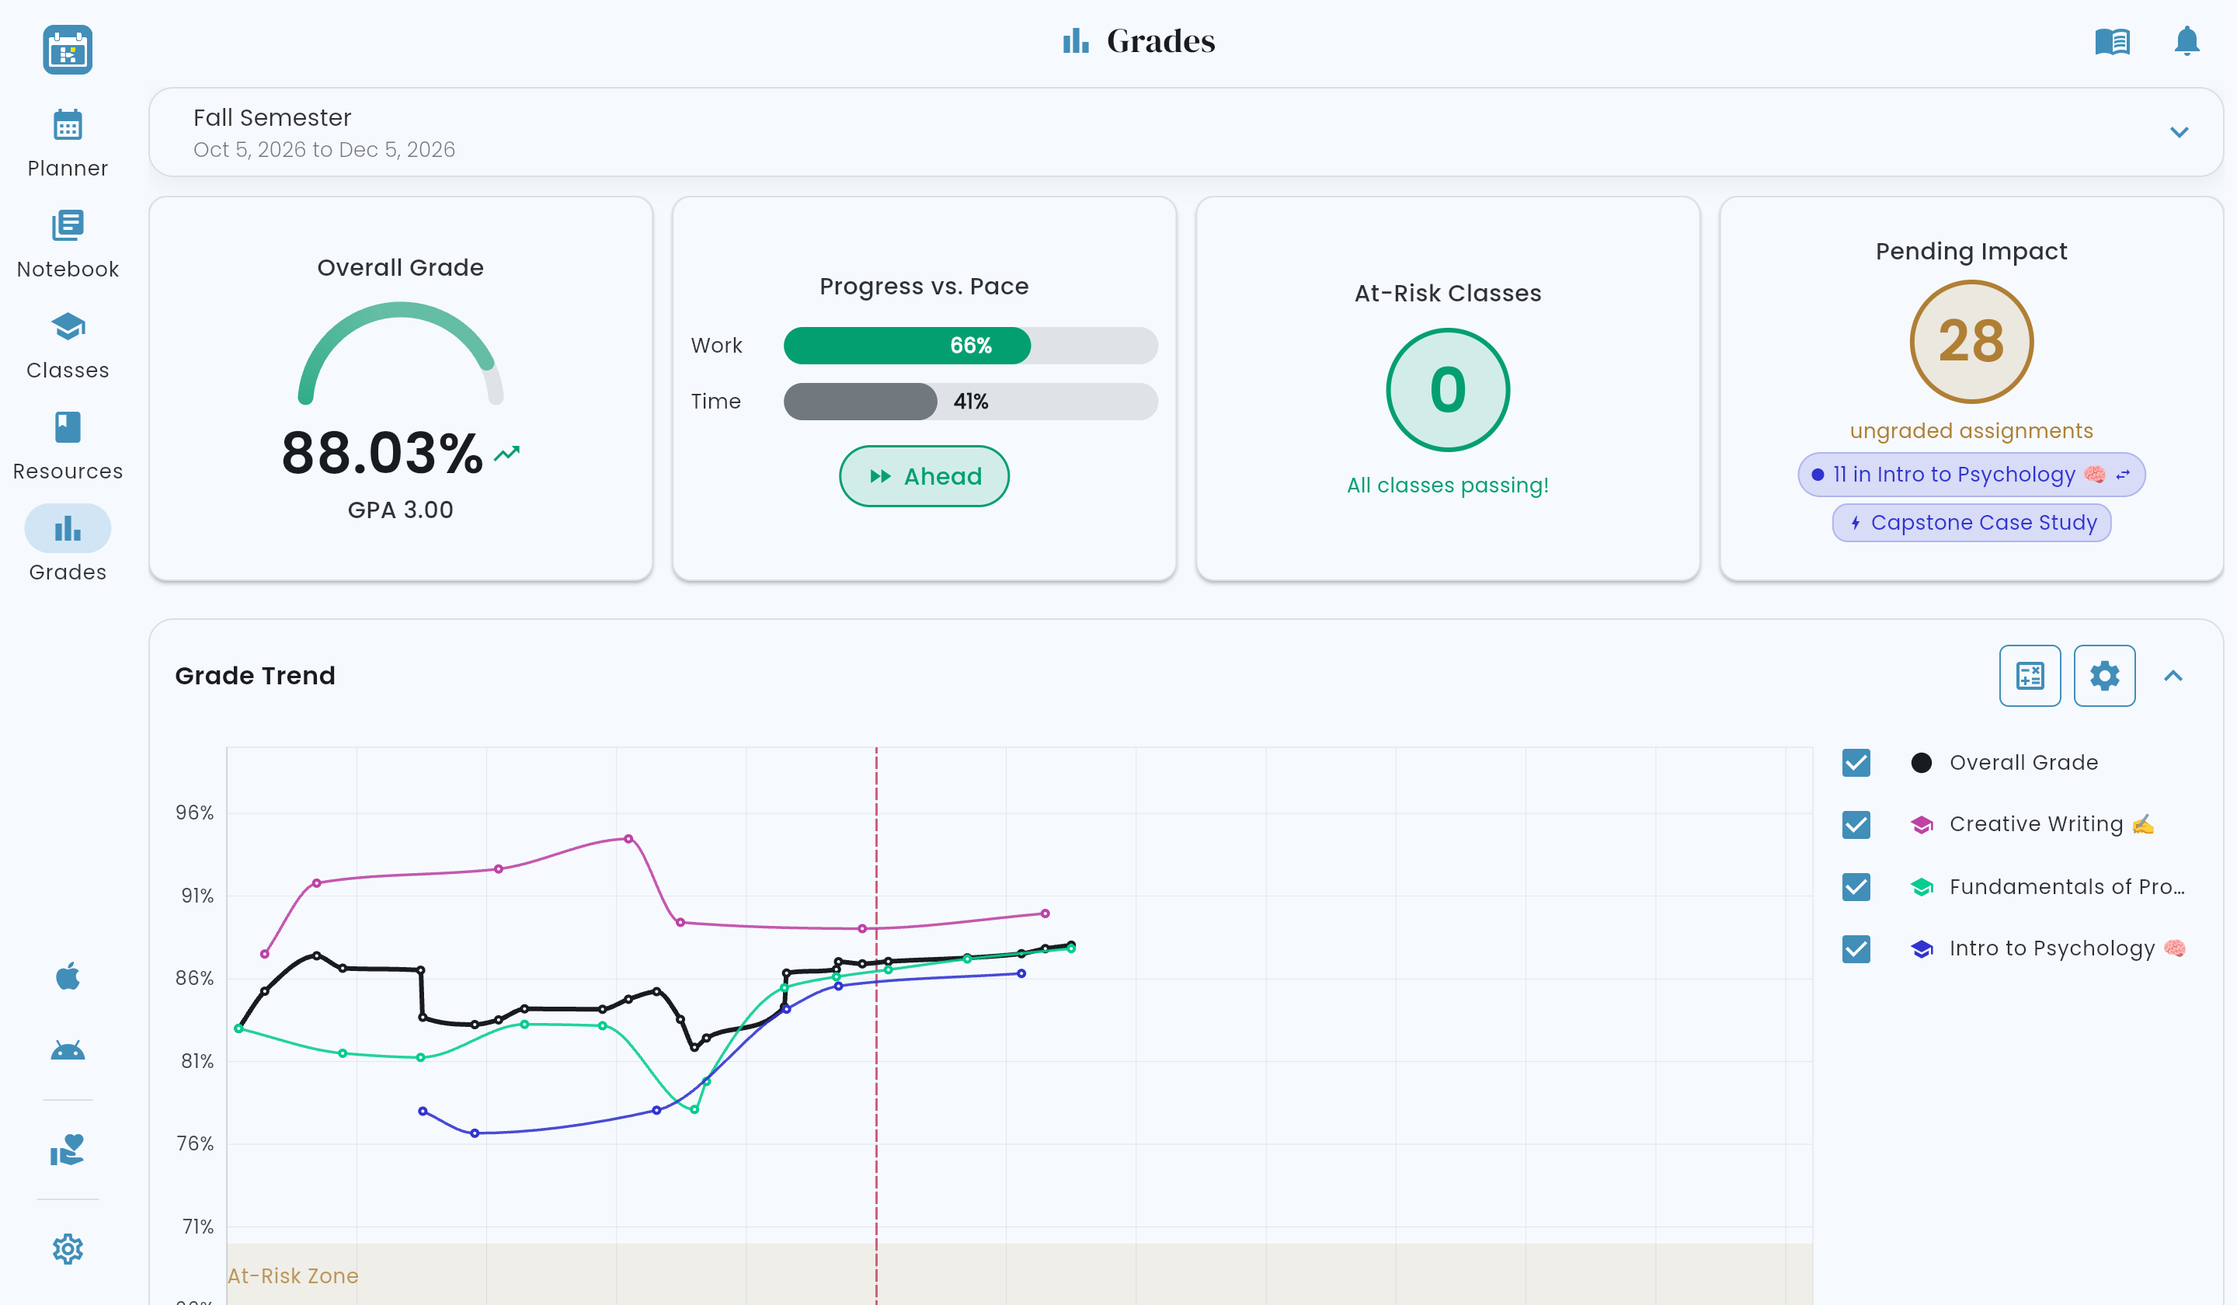
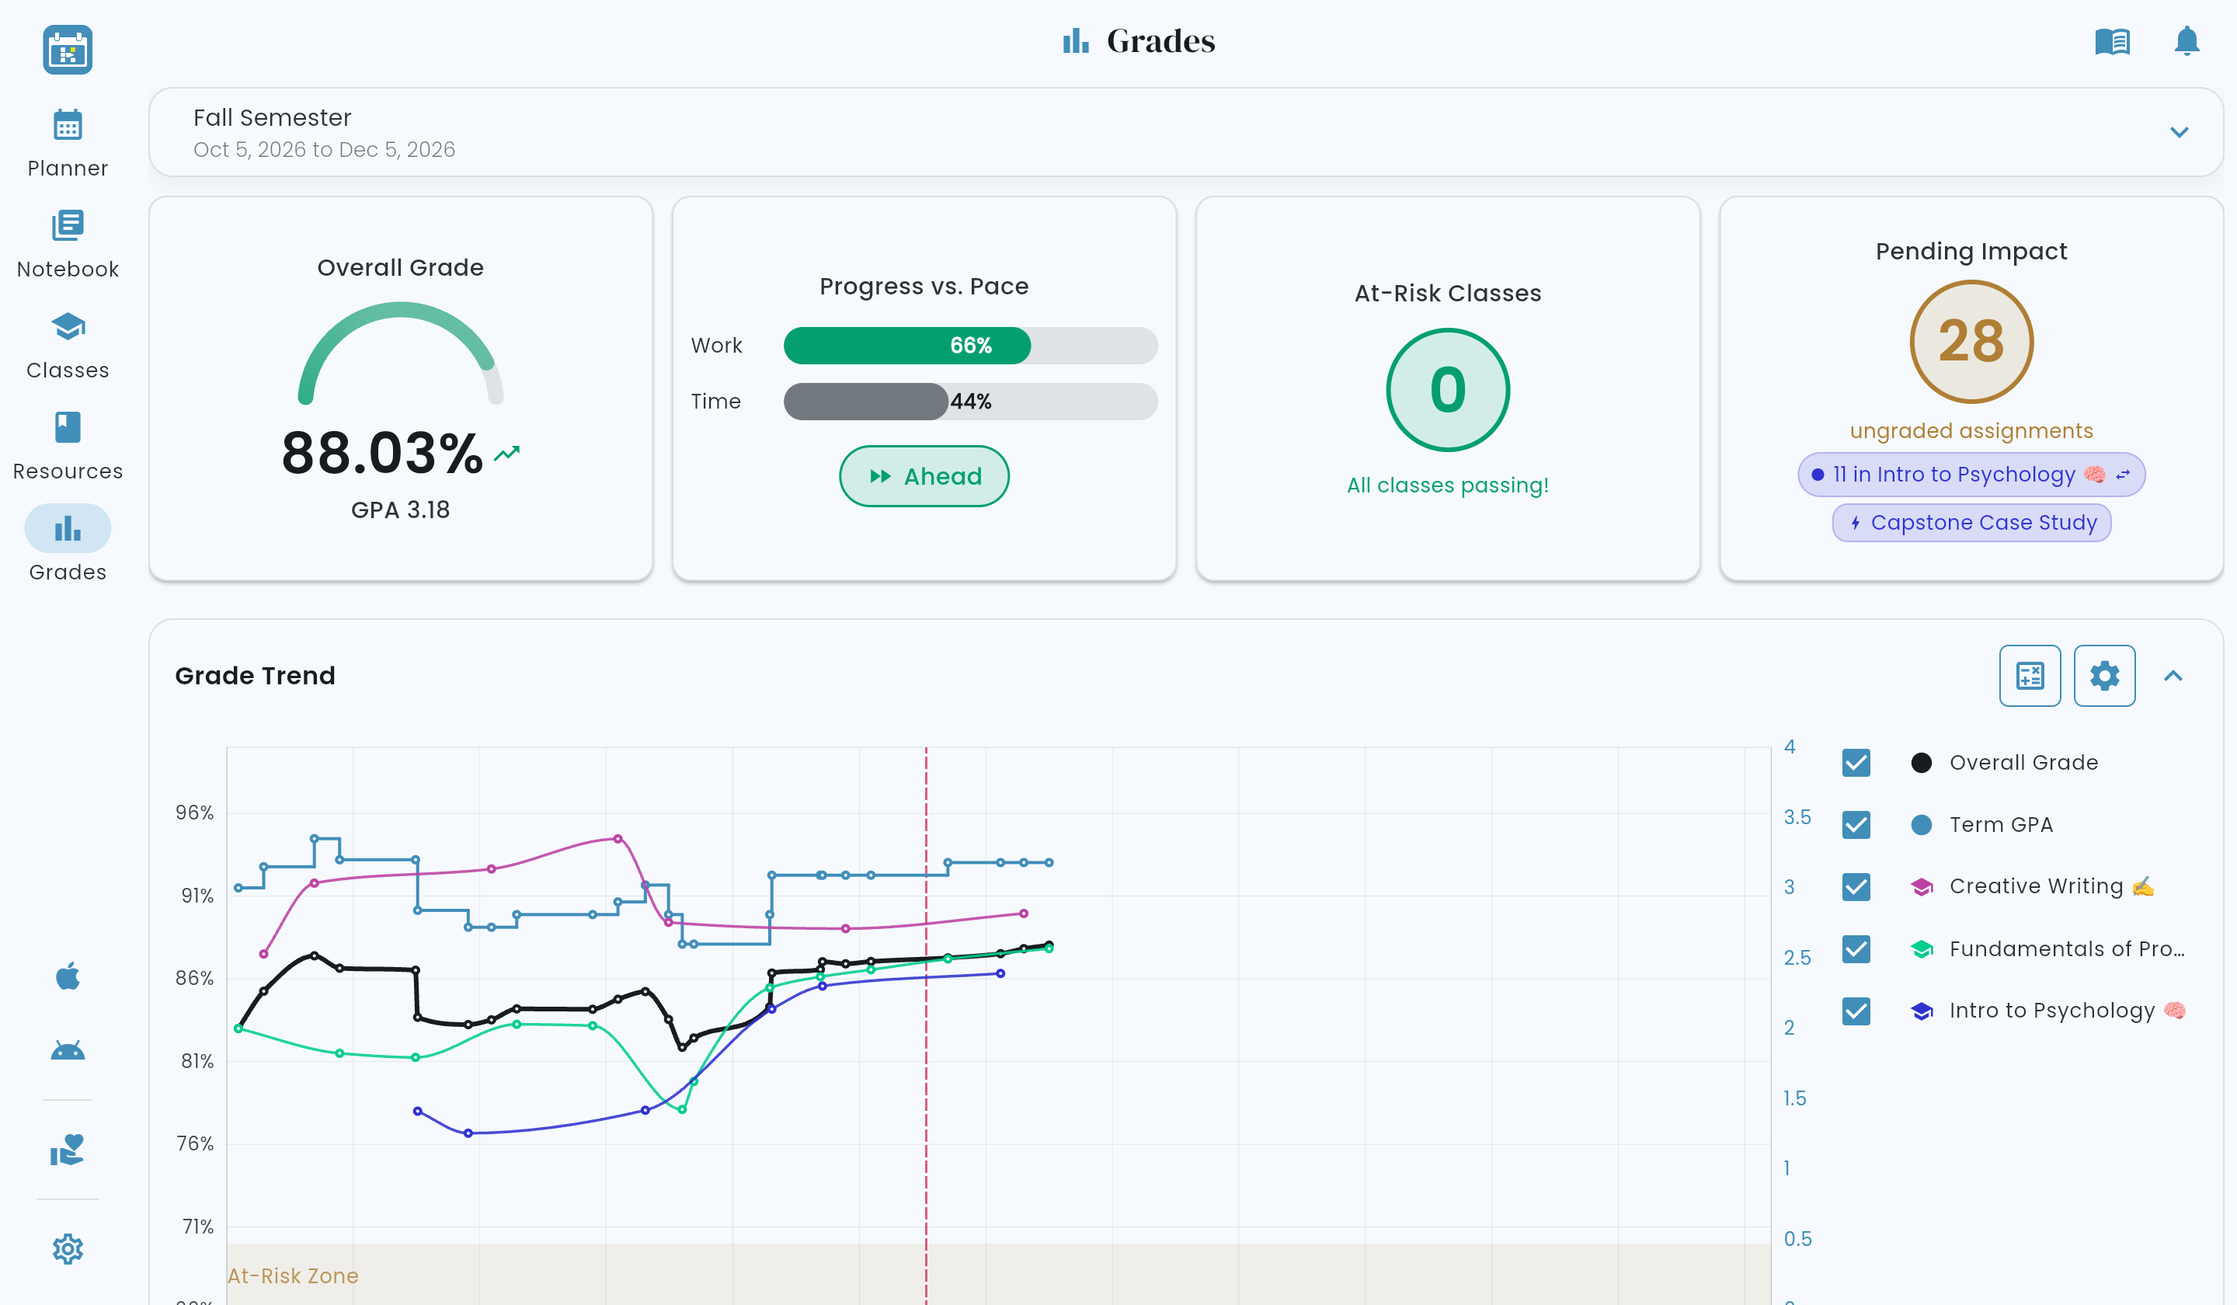
Clarify grade calculator and weighted grading, refresh grade screenshots
Explain that Calculate for appears when the class group has a grade scale, and that Term GPA also requires class credits. Explain how incomplete assignments and unweighted categories affect grade calculations, including the Not Graded status and how to make those assignments count again. Clarify the grade calculator's starting defaults and projections, and how weighted grades are calculated, and update grade-related screenshots.

diff --git a/src/content/support/grades-and-progress/tracking-your-gpa.md b/src/content/support/grades-and-progress/tracking-your-gpa.md
@@ -1,35 +1,12 @@
 ---
 title: Tracking Your GPA
-description: "How Helium calculates your GPA for each term and across all terms, and how to turn it on with a grade scale and credits."
+description: "How Helium calculates your GPA for each term and across all terms, and how to turn it on with credits once your classes have a grade scale."
 category: grades-and-progress
 publishedDate: 2026-11-12
-updatedDate: 2026-11-18
+updatedDate: 2026-11-20
 ---
 
-Helium calculates a GPA for each Class Group once you choose a grade scale for it and a class with credits has a grade. It shows in the **Overall Grade** widget on the [**Grades**](https://app.heliumedu.com/grades) page. If your school doesn't use GPA, leave the grade scale on **None** and Helium won't show one.
-
-## Choosing a Grade Scale
-
-A grade scale turns a class grade into a grade point, like 90% and up earning a 4.0. A new group uses the scale of your most recent group, or **None** for your first.
-
-  1. Open [**Classes**](https://app.heliumedu.com/classes)
-  2. Open the group menu at the top and click the edit (pencil) icon next to the group
-  3. Choose a **Grade scale**, then click the table icon next to it to check its bands against your school's
-  4. Click **Save**
-
-A scale set through the [Helium API](/support/sync-and-integration/using-the-helium-api/) or an import that doesn't match a preset shows as **Custom**.
-
-## A Class With Its Own Grade Scale
-
-If a syllabus grades differently from the rest of your term, like whole letters in a group graded with +/-, give that class its own scale.
-
-  1. Open [**Classes**](https://app.heliumedu.com/classes) and click the class
-  2. On the **Details** tab, choose a **Grade scale**
-  3. Click **Save**
-
-The list only offers scales whose grades your group's scale also uses, so your GPA stays on one scale. It's unavailable when the group has no scale or nothing else fits. For example, a school that grades in whole letters never records an A-, so a class in that group can't use a scale with +/-. **Same as group** uses the group's scale. If you change the group's scale, a class scale that no longer fits goes back to **Same as group**.
-
-When a class has a grade scale, its card on the **Classes** page shows it.
+Helium calculates a GPA for each Class Group once it has a grade scale and a class with credits has a grade. It shows in the **Overall Grade** widget on the [**Grades**](https://app.heliumedu.com/grades) page. To choose your school's scale, see [Choosing a Grade Scale](/support/grades-and-progress/choosing-a-grade-scale/).
 
 ## Adding Credits
 
@@ -60,6 +37,7 @@ Prior credits count toward **All** at your prior GPA, like one more term on its 
 
 ## Related Articles
 
+  * [Choosing a Grade Scale](/support/grades-and-progress/choosing-a-grade-scale/)
   * [How Helium Calculates Your Grades](/support/grades-and-progress/how-helium-calculates-your-grades/)
   * [Understanding the Grades Dashboard](/support/grades-and-progress/understanding-the-grades-dashboard/)
   * [Grade Calculator](/support/grades-and-progress/grade-calculator/)

diff --git a/src/content/support/grades-and-progress/how-helium-calculates-your-grades.md b/src/content/support/grades-and-progress/how-helium-calculates-your-grades.md
@@ -3,20 +3,21 @@ title: How Helium Calculates Your Grades
 description: "How Helium computes your class, category, and term grades — covering points-based and weighted grading, missing work, date ranges, and GPA."
 category: grades-and-progress
 publishedDate: 2026-05-19
-updatedDate: 2026-11-12
+updatedDate: 2026-11-20
 ---
 
 Helium supports point-based grading as well as weighted grading.
 
 For points-based grading, your class grade is calculated as the total number of earned points over the total number of possible points. Assignment categories do not play a role in points-based grade calculations.
 
-For weighted grading, your class grade is calculated against the weight of each category, so the final grade is the average score of each category multiplied by its weight, over the sum of all weights.
+For weighted grading, your class grade is calculated against the weight of each category, so the final grade is the average score of each category multiplied by its weight, over the sum of the weights of the categories that have graded work.
 
 ## Missing or Ungraded Work
 
   * Assignments are not included in grade calculations unless **Complete** is checked and **Grade** is set
   * A missed assignment needs to still be marked as **Completed** and have its **Grade** set to "0" to be reflected in the grade calculation — simply leaving **Grade** blank will not cause it to affect grade calculations
-  * In classes with weighted grading, categories that have no **Weight** are ungraded — assignments placed in this category are ignored by the grading system, even if **Grade** is set
+  * In classes with weighted grading, categories that have no **Weight** are ungraded — they're marked **Not Graded** in an assignment's **Category** list, and assignments placed in them are ignored by the grading system
+  * Unchecking **Complete**, or moving an assignment into a **Not Graded** category, keeps its **Grade**, but it stops counting until the assignment is complete again and, in a weighted class, its category has a **Weight**
   * The start/end dates you set for the term set the range of the grade graph and the pace comparison; term and class dates do not change which assignments count toward your grades
 
 ## Overall Category Grade
@@ -25,7 +26,7 @@ The overall grade of a category is the total number of earned points over the to
 
 ## Overall Term Grade
 
-The overall grade of a term is a flat average of each class's current grade, so every class counts the same. To weigh classes by their credits instead, choose a grade scale and Helium calculates your GPA — see [Tracking Your GPA](/support/grades-and-progress/tracking-your-gpa/).
+The overall grade of a term is a flat average of each class's current grade, so every class counts the same. To weigh classes by their credits instead, choose a [grade scale](/support/grades-and-progress/choosing-a-grade-scale/) and add credits, and Helium calculates your GPA — see [Tracking Your GPA](/support/grades-and-progress/tracking-your-gpa/).
 
 ## Related Articles
 

diff --git a/src/content/support/grades-and-progress/choosing-a-grade-scale.md b/src/content/support/grades-and-progress/choosing-a-grade-scale.md
@@ -1,0 +1,47 @@
+---
+title: Choosing a Grade Scale
+description: "Pick your school's grade scale to see letter grades for your classes, and the grade points Helium uses for your GPA."
+category: grades-and-progress
+publishedDate: 2026-11-20
+updatedDate: 2026-11-20
+---
+
+A grade scale turns each class's percentage into a letter grade, like 93% and up earning an A, and into a grade point, like that A earning a 4.0. You get letter grades as soon as you choose a scale. Add credits to your classes too, and Helium calculates your GPA; see [Tracking Your GPA](/support/grades-and-progress/tracking-your-gpa/).
+
+## Choosing a Scale for a Term
+
+Each Class Group has its own scale. A new group uses the scale of your most recent group, or **Percentages only** for your first.
+
+  1. Open [**Classes**](https://app.heliumedu.com/classes)
+  2. Open the group menu at the top and click the edit (pencil) icon next to the group
+  3. Choose a **Grade scale**
+  4. Click **Save**
+
+Each scale in the list shows its letter range, like "A+ to F". Pick the one that matches the grading scale in your syllabus or school handbook, then click the table icon next to the list to check every letter, cutoff, and grade point against it.
+
+**Percentages only** keeps your grades as percentages, with no letters or GPA.
+
+A scale set through the [Helium API](/support/sync-and-integration/using-the-helium-api/) or an import that doesn't match a preset shows as **Custom**.
+
+## Letter Grades Without GPA
+
+If your school uses letter grades but you don't track GPA, choose a scale and leave your classes' **Credits** empty. Each class shows its letter on the [**Grades**](https://app.heliumedu.com/grades) page, and Helium doesn't calculate a GPA.
+
+## A Class With Its Own Scale
+
+If a syllabus grades differently from the rest of your term, like whole letters in a group graded with +/-, give that class its own scale. The class's **Grade scale** only shows when its group has a scale.
+
+  1. Open [**Classes**](https://app.heliumedu.com/classes) and click the class
+  2. On the **Details** tab, choose a **Grade scale**
+  3. Click **Save**
+
+The list only offers scales whose grades your group's scale also uses, and it's unavailable when nothing else fits. **Same as group** uses the group's scale. If you change the group's scale, a class scale that no longer fits goes back to **Same as group**.
+
+When a class has a grade scale, its card on the **Classes** page shows it.
+
+## Related Articles
+
+  * [Tracking Your GPA](/support/grades-and-progress/tracking-your-gpa/)
+  * [How Helium Calculates Your Grades](/support/grades-and-progress/how-helium-calculates-your-grades/)
+  * [Understanding the Grades Dashboard](/support/grades-and-progress/understanding-the-grades-dashboard/)
+  * [Setting Up and Managing Classes](/support/classes/setting-up-and-managing-classes/)

diff --git a/src/content/support/classes/setting-up-and-managing-classes.md b/src/content/support/classes/setting-up-and-managing-classes.md
@@ -3,7 +3,7 @@ title: Setting Up and Managing Classes
 description: "Add classes, set meeting schedules, configure grading categories, and organize them by term — the foundation of how Helium tracks your academic life."
 category: classes
 publishedDate: 2026-05-19
-updatedDate: 2026-11-14
+updatedDate: 2026-11-20
 ---
 
 In Helium, your academic life is organized around **Class Groups** and **Classes**. A Class Group typically represents a term or semester, and the classes within it represent your individual classes. Setting up your classes correctly is what makes grades, assignments, and your recurring schedule all work together. Assignments belong to a class, so at least one class has to exist before you can add one.
@@ -17,7 +17,7 @@ Before adding classes, you need at least one Class Group to hold them. Class Gro
   3. Fill in the group details:
      * **Title** — e.g., "Fall 2025," "Spring Term," "2025-26 School Year"
      * **From / To** — the start and end dates of the term
-     * **Grade scale** — how class grades turn into grade points for your GPA, or **None** if you don't track one; see [Tracking Your GPA](/support/grades-and-progress/tracking-your-gpa/)
+     * **Grade scale** — how class grades turn into letter grades and grade points for your GPA, or **Percentages only** to keep plain percentages; see [Choosing a Grade Scale](/support/grades-and-progress/choosing-a-grade-scale/)
      * **Hide this group's classes and assignments from the Planner and Resources** — check this to hide the entire group from your calendar, from the Resources page's class associations, and from the Notebook's link picker, without deleting anything
   4. Click **Save**
 
@@ -35,7 +35,7 @@ With a group selected, click the **+** button to add a class. Class setup is spl
   * **Online / Location** — where the class is held, or check **Online** for a fully remote class.
   * **Color** — the color used to represent this class across Planner and Grades
   * **Credits** — how much the class counts toward your GPA
-  * **Grade scale** — **Same as group** uses the group's scale; choose another only if this class's syllabus grades differently; see [Tracking Your GPA](/support/grades-and-progress/tracking-your-gpa/)
+  * **Grade scale** — **Same as group** uses the group's scale; choose another only if this class's syllabus grades differently; see [Choosing a Grade Scale](/support/grades-and-progress/choosing-a-grade-scale/)
   * **Notes** — a note for the class; once the class is saved, click **Open in Notebook** to edit it in the Notebook
 
 Click **Save** to create the class and proceed to the Schedules tab.

diff --git a/src/content/support/grades-and-progress/grade-calculator.md b/src/content/support/grades-and-progress/grade-calculator.md
@@ -3,7 +3,7 @@ title: Grade Calculator
 description: "Use Helium's Grade Calculator to project your overall grade or term GPA with hypothetical scores, or find out exactly what you need on a final assignment to hit your target."
 category: grades-and-progress
 publishedDate: 2026-05-19
-updatedDate: 2026-11-14
+updatedDate: 2026-11-20
 ---
 
 ## How to Open the Grade Calculator
@@ -18,7 +18,7 @@ The top of the dialog shows the class's grade, and its grade point when the clas
 
 ## Class Grade or Term GPA
 
-Use **Calculate for** to switch both tabs between **Class grade** and **Term GPA**. Term GPA needs a grade scale on the class's group and credits on the class; until then it's unavailable, and the dialog says what's missing. See [Tracking Your GPA](/support/grades-and-progress/tracking-your-gpa/) to set them up.
+Once the class's group has a [grade scale](/support/grades-and-progress/choosing-a-grade-scale/), use **Calculate for** to switch both tabs between **Class grade** and **Term GPA**. Term GPA also needs credits on the class; until it has them, the dialog says so. See [Tracking Your GPA](/support/grades-and-progress/tracking-your-gpa/) to add them.
 
 ---
 
@@ -30,7 +30,7 @@ Each ungraded assignment appears as a row with a slider and a percentage. Drag t
 
 ### Default Slider Positions
 
-Each slider starts at your current category average. If a category has no graded work yet, sliders in that category default to 100%.
+Each slider starts where your grades stand now: in a weighted class, its category's average, or your current class grade when nothing in the category is graded yet. In a class without category weights, every slider starts at your current class grade. Left untouched, the projected grade is your current grade. Before anything in the class is graded, sliders start at 100%.
 
 ### Projected Grade Indicator
 
@@ -43,7 +43,7 @@ In **Term GPA**, it adds the class's projected grade point and your projected te
 
 ### Reset
 
-Click **Reset** to restore all sliders to their category-average defaults.
+Click **Reset** to restore all sliders to their starting positions.
 
 ### How the Projection Works
 
@@ -54,6 +54,8 @@ For weighted classes, each category's hypothetical grade averages your existing 
 ## What Do I Need?
 
 Calculates the exact score you need on a single remaining assignment to achieve your desired overall grade.
+
+It assumes the rest of your ungraded work scores where your grades stand now, the same starting point as **What Could I Get?**. Once something in the class is graded, enter the score it gives you there and the projected grade lands on your target.
 
 ### Requirements
 

diff --git a/src/content/support/grades-and-progress/setting-up-weighted-grading-assignment-categories.md b/src/content/support/grades-and-progress/setting-up-weighted-grading-assignment-categories.md
@@ -3,7 +3,7 @@ title: Setting Up Weighted Grading & Assignment Categories
 description: "Match your teacher's grading scheme in Helium by setting weights for assignment categories like Homework, Quizzes, and Exams."
 category: grades-and-progress
 publishedDate: 2026-05-19
-updatedDate: 2026-05-19
+updatedDate: 2026-11-20
 ---
 
 Weighted categories let you match your teacher's grading scheme (e.g., Homework 30%, Quizzes 20%, Exams 50%). Weighted grading is enabled for a class whenever any of its categories has a **Weight (%)** value set.
@@ -16,6 +16,8 @@ Weighted categories let you match your teacher's grading scheme (e.g., Homework 
   4. Set the **Weight (%)** field to match the weight given in your syllabus
   5. Click **Save**
   6. Repeat for each category — all weights should add up to 100%
+
+> **Note:** Once a class uses weights, any category without one, including **Uncategorized**, is marked **Not Graded** in an assignment's **Category** list, and grades in it don't count toward the class grade. Move those assignments into a weighted category, or give the category a weight.
 
 ## Related Articles
 
